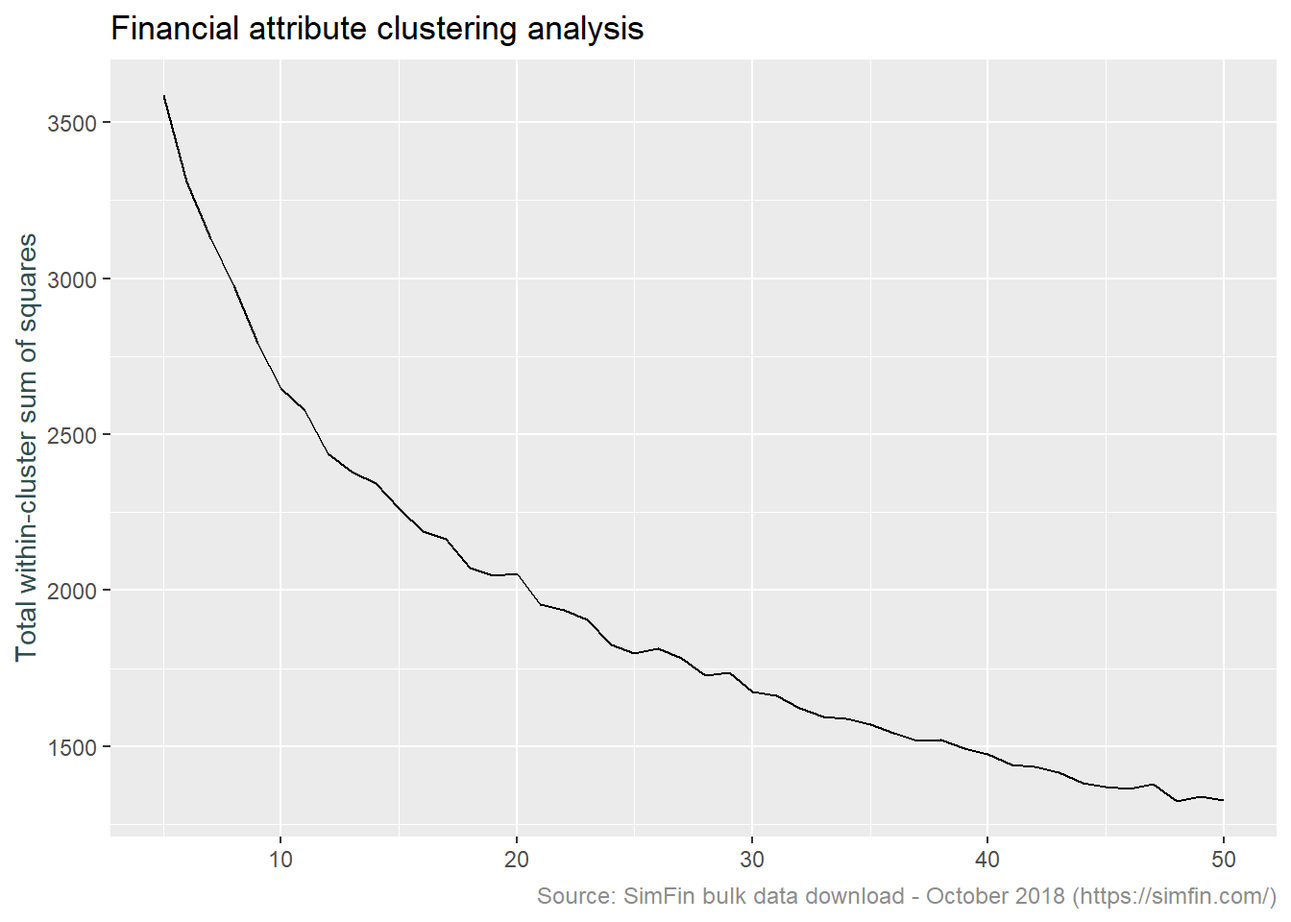
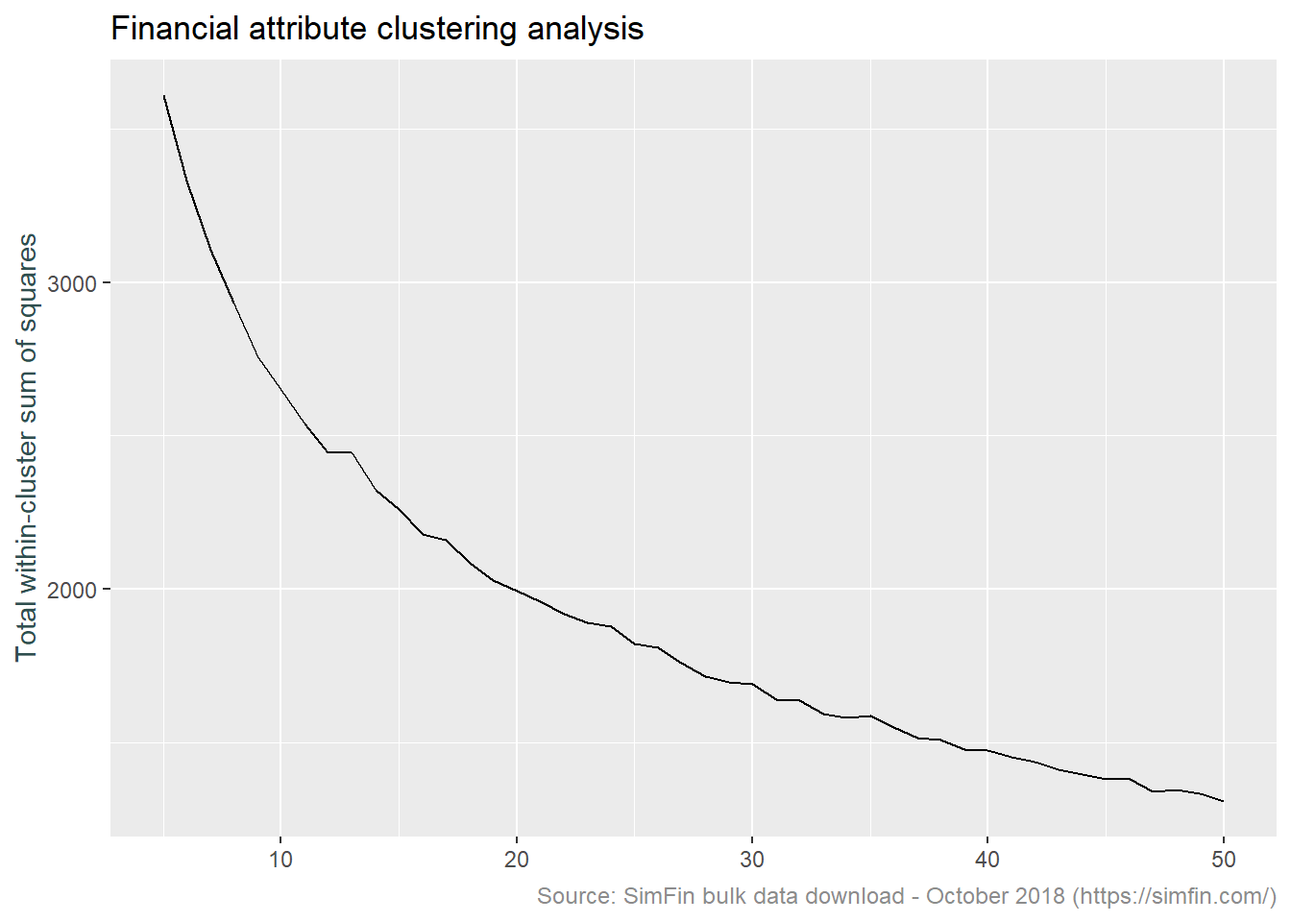
Text refinement

diff --git a/content/post/2019-05-12-ifrs9-disclosures-part-2.html b/content/post/2019-05-12-ifrs9-disclosures-part-2.html
@@ -24,12 +24,12 @@ topics: []
 <script src="/rmarkdown-libs/crosstalk/js/crosstalk.min.js"></script>
 
 
-<p><em>This post is incomplete. Outstanding actions are labelled TODO</em></p>
+<p><em>This post is incomplete. Outstanding actions are labelled “TO DO”</em></p>
 <p>This post is a continuation of the series initiated <a href="https://brentmorrison.netlify.com/post/ifrs9-disclosures/">here</a>.</p>
-<p>Recall our problem imagines we are a bank lending to the largest 1,000 US companies. We (“Bank1000”) own the debt of these companies and are required to prepare IFRS9 disclosures. This requires the estimatation of an expected credit loss (“ECL”) and risk stage.</p>
+<p>Recall our problem imagines we are a bank lending to the largest 1,000 US companies. We (“Bank1000”) own the debt of these companies and are required to prepare IFRS9 disclosures. This requires the estimation of an expected credit loss (“ECL”) and risk stage.</p>
 <p>We have already selected the top 1,000 stocks for analysis, we now need to create an ECL balance and assign a risk stage.</p>
 <p>The ECL is a probability weighted estimate of credit losses. The risk stage takes three values and indicates whether a loan has had no change in credit risk since origination (Stage 1), has experienced a significant increase in credit risk since origination (Stage 2) or if the loan is credit impaired (Stage 3). We are going to estimate the expected credit loss and risk stage via measurements of valuation and default risk. We do not know the level of credit risk at origination, so the risk stage will be assigned based on the current level of credit risk as opposed to the change since origination.</p>
-<p>Stocks that have a low valuation and/or a high default risk will attract a higher estimated expected credit loss. A high default risk is obviously a natural proxy for expected credit loss, the ECL is designed to reflect default risk. A low valuation will also proxy credit risk on the basis that should a stock be trading at a significant discount to it’s peers, it is likely to be experiencing heightened credit risk.</p>
+<p>Stocks that have a low valuation and/or a high default risk will attract a higher estimated expected credit loss. High default risk is obviously a natural proxy for expected credit loss, the ECL is designed to reflect default risk. Low valuation will also proxy credit risk on the basis that should a stock be trading at a significant discount to it’s peers, it is likely to be experiencing heightened credit risk.</p>
 <p>How will valuation and default risk be assessed? Valuation will be assessed using the Price/Book - Return on Equity (“PB-ROE”) model. Default risk will be assessed using the using the Merton distance to default model. Both of these methods will be explained in further detail below. It should be noted that the PB-ROE model will be applied to groups of similar stocks. The similarity of stocks is not going to be assessed via industry or sector membership, but rather by similarity of fundamental characteristics. This will be determined by applying a clustering algorithm.</p>
 <p>This is all going to take some significant data engineering. In broad terms this will look as follows:</p>
 <ol style="list-style-type: decimal">
@@ -159,7 +159,7 @@ simfin.m %&gt;% select(td.ta:rev.vol) %&gt;%
   )</code></pre>
 <div id="htmlwidget-1" style="width:100%;height:auto;" class="datatables html-widget"></div>
 <script type="application/json" data-for="htmlwidget-1">{"x":{"filter":"none","caption":"<caption style=\"caption-side: bottom; text-align: left;\">\n  <em>\n    Financial ratio legend:\n    <br/>\n    da.ta: Depreciation &amp; amortisation / total assets\n    <br/>\n    int.ta: Intangibles / total assets\n    <br/>\n    nca.ta: Non-current assets / total assets\n    <br/>\n    ncl.ta: Non-current liabilities / total assets\n    <br/>\n    np.ta: Net profit / total assets\n    <br/>\n    oa.ta: Other assets / total assets\n    <br/>\n    rev.ta: Revenue / total assets\n    <br/>\n    td.ta: Total debt / total assets\n    <br/>\n    rev.vol: Revenue volatility\n  <\/em>\n<\/caption>","data":[["Mean","Std.Dev","Min","Q1","Median","Q3","Max","MAD","IQR","CV","Skewness","SE.Skewness","Kurtosis","N.Valid","Pct.Valid"],[0.04,0.03,-0.24,0.02,0.03,0.05,0.64,0.02,0.02,0.86,6.45,0.01,80.23,56556,100],[0.06,0.09,0,0,0.01,0.08,0.81,0.01,0.08,1.67,2.68,0.01,9.79,56556,100],[0.62,0.23,0,0.45,0.63,0.81,1,0.27,0.36,0.38,-0.38,0.01,-0.65,56556,100],[0.37,0.45,-0.08,0.18,0.36,0.51,21.41,0.24,0.33,1.19,26.1,0.01,1006.7,56556,100],[0.05,0.11,-2.95,0.02,0.05,0.09,0.83,0.05,0.07,2.32,-6.17,0.01,136.44,56556,100],[0.34,0.23,0,0.15,0.31,0.51,0.95,0.26,0.36,0.67,0.43,0.01,-0.77,56556,100],[0.83,0.71,-0.46,0.36,0.64,1.08,8.89,0.48,0.72,0.85,2.75,0.01,15.26,56556,100],[0.15,0.26,0,0.04,0.07,0.16,4.04,0.07,0.12,1.71,5.97,0.01,51.8,56556,100],[0.29,0.46,0,0.13,0.27,0.4,24.93,0.2,0.27,1.56,32.03,0.01,1397.67,56556,100]],"container":"<table class=\"display\">\n  <thead>\n    <tr>\n      <th> <\/th>\n      <th>da.ta<\/th>\n      <th>int.ta<\/th>\n      <th>nca.ta<\/th>\n      <th>ncl.ta<\/th>\n      <th>np.ta<\/th>\n      <th>oa.ta<\/th>\n      <th>rev.ta<\/th>\n      <th>rev.vol<\/th>\n      <th>td.ta<\/th>\n    <\/tr>\n  <\/thead>\n<\/table>","options":{"pageLength":15,"columnDefs":[{"className":"dt-right","targets":[1,2,3,4,5,6,7,8,9]},{"orderable":false,"targets":0}],"order":[],"autoWidth":false,"orderClasses":false,"lengthMenu":[10,15,25,50,100]}},"evals":[],"jsHooks":[]}</script>
-<p>A not about table formatting <a href="#fn1" class="footnote-ref" id="fnref1"><sup>1</sup></a>.</p>
+<p>A note about table formatting <a href="#fn1" class="footnote-ref" id="fnref1"><sup>1</sup></a>.</p>
 <pre class="r"><code># Plot density graph
 simfin.m %&gt;% 
   select(td.ta:da.ta) %&gt;% gather(ratio, value) %&gt;% 
@@ -173,12 +173,12 @@ simfin.m %&gt;%
         axis.title.y = element_text(color = &quot;darkslategrey&quot;),
         plot.caption = element_text(size = 9, color = &quot;grey55&quot;))</code></pre>
 <p><img src="/post/2019-05-12-ifrs9-disclosures-part-2_files/figure-html/step_1_3-1.png" width="792" /></p>
-<p>Inspection of the histograms and summary statisitic show a number of issues with this data that need to be addressed before proceeding:</p>
+<p>Inspection of the histograms and summary statistic show a number of issues with this data that need to be addressed before proceeding:</p>
 <ol style="list-style-type: decimal">
 <li><p>Depreciation &amp; amortisation / total assets, non-current liabilities / total assets and revenue / total assets are all returning negative values. This indicates data quality issues. Neither the numerators or denominator of these ratios can take a negative value. We will attempt to resolve this by winsorising the data.</p></li>
-<li><p>Intangibles / total assets appears to be a low variance predictor. This attribute is returning mostly nil values. The minimum and first quartile value are both nil. A quick review of a couple of Tickers known to have intangibles (A - Agilent, AAPL - Apple, NFLX - Netflix) shows that this data attribute is missing. We will ignore this attribute and take Other assets / total assets as a proxy for the quantum of intangibles. This is appropriate since Intangible assets is a component of Other assets.</p></li>
+<li><p>Intangibles / total assets appears to be a low variance predictor. This attribute is returning mostly nil values. The minimum and first quartile value are both nil. A quick review of a couple of Tickers known to have intangibles (A - Agilent, AAPL - Apple, NFLX - Netflix) shows that this data attribute is missing. We will ignore this attribute and take other assets / total assets as a proxy for the quantum of intangibles. This is appropriate since Intangible assets is a component of Other assets.</p></li>
 <li><p>A number of attributes are highly skewed. The k-means clustering algorithm does not perform well on skewed data since cluster centres are derived by taking the average of all data points. Outliers present in skewed data sets unduly influence the cluster centres resulting in less then representative clusters. See <a href="https://www.quora.com/How-are-k-means-clustering-algorithms-sensitive-to-outliers">here</a> for a nice explanation of this effect. Should the winsorisation of attributes not resolve the skewness we may need to performing a Box-Cox or log transformation.</p></li>
-<li><p>The attributes we have used are on different scales. Although most attributes are expressed relative to total assets, profit and loss items are naturally on a different scale to balance sheet items. Revenue volatility is on a seperate scale altogether. The use of attributes with differing scales is not appropriate for ingestion to the k-means clustering algorithm. This is because one attribute can dominate others should it have greater dispersion. The answers to <a href="https://stats.stackexchange.com/questions/89809/is-it-important-to-scale-data-before-clustering">this</a> Stack Overflow question go into further detail around this effect. In light of this we will centre and scale the data.</p></li>
+<li><p>The attributes we have used are on different scales. Although most attributes are expressed relative to total assets, profit and loss items are naturally on a different scale to balance sheet items. Revenue volatility is on a separate scale altogether. The use of attributes with differing scales is not appropriate for ingestion to the k-means clustering algorithm. This is because one attribute can dominate others should it have greater dispersion. The answers and visualisation in <a href="https://stats.stackexchange.com/questions/89809/is-it-important-to-scale-data-before-clustering">this</a> Stack Overflow question intuitively explain this effect. In light of this we will centre and scale the data.</p></li>
 </ol>
 <pre class="r"><code># View summary statistics
 simfin.m %&gt;% select(td.ta:rev.vol, -int.ta) %&gt;% 
@@ -222,11 +222,11 @@ simfin.m %&gt;%
         axis.title.y = element_text(color = &quot;darkslategrey&quot;),
         plot.caption = element_text(size = 9, color = &quot;grey55&quot;))</code></pre>
 <p><img src="/post/2019-05-12-ifrs9-disclosures-part-2_files/figure-html/step_1_5-1.png" width="792" /></p>
-<p>This provides us with a dataset that is more appropriate for clustering. Some further observations:</p>
+<p>This provides us with a data set that is more appropriate for clustering. Some further observations:</p>
 <ol style="list-style-type: decimal">
 <li>Revenue volatility remains highly skewed. We will take the log transform of this attribute to resolve this.<br />
 </li>
-<li>The total debt over assets attribute (td.ta) has a bimodal distribution. This is a feature of the data in that a specific cohort of stocks will have no debt.<br />
+<li>The total debt over assets (“td.ta”) and non-current liabilities / total assets (“ncl.ta”) attributes both have a bi-modal distribution. This is a feature of the data in that a specific cohort of stocks will have no debt.<br />
 </li>
 <li>It’s also worth noting the co-efficient of variation is now meaningless since the mean is nil after centering the data.</li>
 </ol>
@@ -281,7 +281,7 @@ simfin.m %&gt;%
 <h3>Step 2 - Assign stocks to like groups based on financial characteristics via a clustering algorithm</h3>
 <p>Stocks are traditionally assigned to like groups via industry or sector membership. We are going to take a different approach and group stocks in an unsupervised manner. We will use a k-means clustering algorithm to cluster stocks based on financial characteristics.</p>
 <p>Why not just use industry membership? Industry membership can be subjective and may change over time with a lag. The use of financial ratios is quantitative and will be updated with current information.</p>
-<p>With that in mind, we need to assess the optimal number of clusters. The code below is taken from <a href="https://cran.r-project.org/web/packages/broom/vignettes/kmeans.html">this</a> broom package vignette. This uses both the <code>broom</code> and <code>purrr</code> packages to iteratively perform k-means clustering with different values of k, the number of clusters.</p>
+<p>With that in mind, we need to assess the optimal number of clusters to use in the k-means algorithm. The code below is taken from <a href="https://cran.r-project.org/web/packages/broom/vignettes/kmeans.html">this</a> broom package vignette. This uses both the <code>broom</code> and <code>purrr</code> packages to iteratively perform k-means clustering with different values of k, the number of clusters.</p>
 <p>The output of the code block below is a graph of the total within-cluster sum of squares versus a range of values for k. Within-cluster sum of squares is of interest since this is the metric the k-means algorithm seeks to minimise. Lower within-cluster sum of squares corresponds to lower with-in cluster variation. This means that the members of the cluster are more alike and the clusters are therefore more different.</p>
 <p>Note that we now select data at a specific date.</p>
 <pre class="r"><code># Create dataframe for clustering
@@ -309,6 +309,7 @@ assignments &lt;- kclusts %&gt;%
 ggplot(clusterings, aes(k, tot.withinss)) +
   geom_line() +
   ylab(&quot;Total within-cluster sum of squares&quot;) +
+  xlab(&quot;k&quot;) +
   labs(title = &quot;Financial attribute clustering analysis&quot;,
        caption = &quot;Source: SimFin bulk data download - October 2018 (https://simfin.com/)&quot;) +
   theme_grey() +
@@ -316,8 +317,8 @@ ggplot(clusterings, aes(k, tot.withinss)) +
         axis.title.y = element_text(color = &quot;darkslategrey&quot;),
         plot.caption = element_text(size = 9, color = &quot;grey55&quot;))</code></pre>
 <p><img src="/post/2019-05-12-ifrs9-disclosures-part-2_files/figure-html/step_2-1.png" width="672" /></p>
-<p>Normally k is selected at the point at which the above plot shows a sharp “elbow”. This is the point at which there is little improvement in the fit of the algorithm as k increases. As can be seen above, there is no sharp elbow to this graph. For conveniance sake more than anything else, we will choose 16 clusters for our analysis going forward.</p>
-<p>At this point we should note that our clustering technique can miss quiet a bit. If clusters are of unequal size, are of unequal density, or are not spherical, the k-means algorithm is not appropriate. Investigating these details is beyond the scope of what I am trying to achieve with this post. <a href="https://codeahoy.com/2017/02/19/cluster-analysis-using-k-means-explained/">This article</a> provides a further detail on these topics.</p>
+<p>Normally k is selected at the point at which the above plot shows a sharp “elbow”. This is the point at which there is little improvement in the fit of the algorithm as k increases. As can be seen above, there is no sharp elbow to this graph. For convenience sake more than anything else, we will choose 16 clusters for our analysis going forward.</p>
+<p>At this point we should note that our clustering technique can miss quiet a bit. If clusters are of unequal size, are of unequal density, or are not spherical, the k-means algorithm is not appropriate. Investigating these details is beyond the scope of what I am trying to achieve with this post. <a href="https://codeahoy.com/2017/02/19/cluster-analysis-using-k-means-explained/">This article</a> provides further detail on these topics.</p>
 <p>Lets now visualise our clusters. This code plots the cluster characteristics in a radar plot.</p>
 <pre class="r"><code>set.seed(123)
 kclust16 &lt;- kmeans(simfin.cl, 16, nstart = 25)
@@ -348,9 +349,12 @@ kclust16.nm %&gt;% select(-size, -withinss, -cluster, -first, -second, -seventh,
   #ggtitle(&quot;Fundamental cluster characteristics&quot;)
   theme_grey() +
   theme(strip.text = element_text(size = 7),
-        legend.position = &quot;none&quot;)</code></pre>
+        legend.position = &quot;none&quot;,
+        axis.title.x = element_blank(),
+        axis.title.y = element_text(color = &quot;darkslategrey&quot;),
+        plot.caption = element_text(size = 9, color = &quot;grey55&quot;))</code></pre>
 <p><img src="/post/2019-05-12-ifrs9-disclosures-part-2_files/figure-html/step_3-1.png" width="792" style="display: block; margin: auto auto auto 0;" /></p>
-<p>Note that the facet titles are a concatenation of the two highest and two lowest cluster centres. Since our data has been scaled to a unit variance these are comparable metrics.</p>
+<p>Note that the facet titles are a concatenation of the two highest and two lowest cluster centres. Since our data has been scaled to a unit variance, these are comparable metrics.</p>
 </div>
 <div id="step-3---assign-cluster-label-to-stocks-and-fill-forward-cluster-category-to-next-assessment-date" class="section level3">
 <h3>Step 3 - Assign cluster label to stocks and fill forward cluster category to next assessment date</h3>
@@ -397,8 +401,8 @@ for (i in c(&#39;2014-01-31&#39;,&#39;2014-07-31&#39;, &#39;2015-01-31&#39;, &#3
 
 # Convert SimFin.ID back to numeric
 kclust16.tot &lt;- kclust16.tot %&gt;% mutate(SimFin.ID = as.numeric(SimFin.ID))</code></pre>
-<p>TODO - insert data table to inspect output</p>
-<p>TODO - build this as a function</p>
+<p><em>TO DO: insert data table to inspect output</em></p>
+<p><em>TO DO: build this as a function</em></p>
 <p>The code block below joins the cluster labels to the monthly data set and then fills forward the cluster membership.</p>
 <pre class="r"><code># Join tables
 simfin.m &lt;- simfin.m %&gt;% left_join(kclust16.tot, by = c(&quot;me.date&quot;, &quot;Ticker&quot;, &quot;SimFin.ID&quot;)) %&gt;% 
@@ -406,7 +410,7 @@ simfin.m &lt;- simfin.m %&gt;% left_join(kclust16.tot, by = c(&quot;me.date&quot
 <div id="step-4---for-each-date-and-cluster-fit-the-pb-roe-model-and-rank-stocks-based-on-the-resultant-valuation" class="section level4">
 <h4>Step 4 - For each date and cluster, fit the PB-ROE model and rank stocks based on the resultant valuation</h4>
 <p>I first learned about the Price/Book - Return on Equity (“PB-ROE”) model reading <a href="http://alephblog.com/2012/02/25/thinking-about-the-insurance-industry/">this</a> blog. The intuition of fitting a regression line to determine the relationship between return on equity and valuation, and then using deviations from this relationship (the residual from this regression) to determine relative valuation of stocks seemed simple and appealing. After all if some stocks in the same industry (or having the same financial characteristics in our example) have a higher ROE, they should be more valuable.</p>
-<p>The code block below creates the required inputs to the PB-ROE model, fits the model to each cluster and date, and then joins this data back to our main dataframe <code>simfin.m</code>. This block of code relies heavily on the nesting functionailty in the <code>purrr</code> package.</p>
+<p>The code block below creates the required inputs to the PB-ROE model, fits the model to each cluster and date, and then joins this data back to our main dataframe <code>simfin.m</code>. This block of code relies heavily on the nesting functionality in the <code>purrr</code> package.</p>
 <pre class="r"><code>simfin.pbroe1 &lt;- simfin.m %&gt;% 
   # Price to book rato and ROE
     mutate(ROE = Winsorize(ann.NetProfit / TotalEquity, probs = c(0.02, 0.98), na.rm = TRUE),
@@ -442,13 +446,13 @@ simfin.pbroe &lt;- simfin.pbroe1 %&gt;%
 # Join to monthly data frame
 simfin.m &lt;- simfin.m %&gt;% left_join(simfin.pbroe) %&gt;% 
   
-  # Add percent rank of residual  TODO - add +ve or -ve residual flag to indicate if
+  # Add percent rank of residual  TO DO: add +ve or -ve residual flag to indicate if
   # over or under valued and group over this in addition to below.
   group_by(me.date, clust.name) %&gt;% 
   mutate(PBROE.rank = percent_rank(desc(resid))) %&gt;% 
   ungroup() %&gt;% 
   rename(PBROE.resid = resid)</code></pre>
-<p>The newly added attributes to our data frame are labelled PBROE.resid and PBROE.rank. PBROE.resid is the difference between the actual log price book ratio and that predicted by the return on equity. If the residual is a positive then stocks are considered overvalued, the actual price to book ratio is larger than that determined by the model. Likewise a negative residual indicates undervaluation based on our model. PBROE.rank is a descending percent ranking of the PBROE.resid. A value of 1 is the lowest residual (undervalued) and a value of nil is the most overvalued.</p>
+<p>The newly added attributes to our data frame are labelled PBROE.resid and PBROE.rank. PBROE.resid is the difference between the actual log price book ratio and that inferred by the return on equity. If the residual is a positive then stocks are considered overvalued, the actual price to book ratio is larger than that determined by the model. Likewise a negative residual indicates undervaluation based on our model. PBROE.rank is a descending percent ranking of the PBROE.resid. A value of 1 is the lowest residual (undervalued) and a value of nil is the most overvalued.</p>
 <pre class="r"><code># Plot average r squared of regression model
 # It would be interesting to compare the results of this to applying the PB-ROE model to industries
 r.sq &lt;- simfin.pbroe1 %&gt;% 
@@ -474,16 +478,25 @@ simfin.m %&gt;%
             check_overlap = TRUE,
             size = 3,
             nudge_x = 0.4) +
-  geom_smooth(method = lm)</code></pre>
+  geom_smooth(method = lm) +
+  labs(title = &quot;PB-ROE model by fundamental cluster&quot;,
+     subtitle = &quot;As at December 2017&quot;,
+     caption = &quot;Source: SimFin bulk data download - October 2018 (https://simfin.com)&quot;) +
+  theme_grey() +
+  theme(strip.text = element_text(size = 7),
+        legend.position = &quot;none&quot;,
+        axis.title.x = element_blank(),
+        axis.title.y = element_text(color = &quot;darkslategrey&quot;),
+        plot.caption = element_text(size = 9, color = &quot;grey55&quot;))</code></pre>
 <p><img src="/post/2019-05-12-ifrs9-disclosures-part-2_files/figure-html/pb_roe_check-1.png" width="792" /></p>
-<pre class="r"><code>#https://stackoverflow.com/questions/26558631/predict-lm-in-a-loop-warning-prediction-from-a-rank-deficient-fit-may-be-mis</code></pre>
-<p>TODO: <em>Determine Why cluster <code>oa.ta_nca.ta_td.ta_da.ta</code>as at 31 December 2017 returning only one stock despite the cluster size being 81?</em></p>
+<p>We expect to see an upward sloping line as the P (price or market capitalisation) in the logPB increases with greater ROE (return on equity). This is primarily what has been observed. A number of clusters do have an inverted relationship and a very low number of individual observations. This is suspected to be a result of anomalies in the data but that is up for further investigation.</p>
+<p><em>TO DO: Determine Why cluster <code>oa.ta_nca.ta_td.ta_da.ta</code>as at 31 December 2017 returning only one stock despite the cluster size being 81?</em></p>
 </div>
 <div id="step-5---apply-the-merton-distance-to-default-model-and-rank-stocks-by-probability-of-default" class="section level4">
 <h4>Step 5 - Apply the Merton distance to default model and rank stocks by probability of default</h4>
-<p>TODO: <em>Insert introductory explanation of Merton model here. Why does full version need iteration? Show summarised version. What does the DD actually represent?</em></p>
-<p>The Merton distance to default model has been modified in this paper: <a href="https://econpapers.repec.org/paper/utsrpaper/112.htm">Merton for dummies</a></p>
-<p>Fistly, we need to prepare data for Merton model. The three inputs are Market cap, debt and equity return volatilty. We do not have equity volatility so this is calculated below.</p>
+<p><em>TO DO: Insert introductory explanation of Merton model here. Why does full version need iteration? Show summarised version. What does the distance to default actually represent?</em></p>
+<p>The Merton distance to default model has been modified in the <a href="https://econpapers.repec.org/paper/utsrpaper/112.htm">Merton for dummies</a> paper. It is this simplified version that we will implement.</p>
+<p>As always, firstly we need to prepare data for ingestion to the model. The three inputs are market capitalisation, debt and equity return volatility. Previous analysis has used both market cap and total debt, we have that data available. We have not calculated equity volatility thus far. This is calculated below.</p>
 <pre class="r"><code># Price - filter attributes and dates required
 simfin.d &lt;- simfin %&gt;% filter(Indicator.Name == &quot;Share Price&quot; &amp; publish.date &gt; &quot;2011-12-31&quot;) %&gt;% 
 mutate(me.date = ceiling_date(publish.date, unit = &quot;month&quot;) - 1) %&gt;% 
@@ -504,21 +517,22 @@ mutate(me.date = ceiling_date(publish.date, unit = &quot;month&quot;) - 1) %&gt;
 
 # Join to monthly data frame
 simfin.m &lt;- simfin.m %&gt;% left_join(simfin.d)</code></pre>
-<p>We now create the distance to default and a descending percent ranking thereof (MertonDD.rank).</p>
-<pre class="r"><code># Create Merton DD.  TODO - resolve infinity
+<p>We now create the distance to default measure and assign a descending percent ranking thereof (MertonDD.rank).</p>
+<pre class="r"><code># Create Merton DD
 simfin.m &lt;- simfin.m %&gt;% 
   mutate(MertonDD = if_else(TotalDebt == 0 | vol_3m == 0, 25,
                        log(1/(TotalDebt / (TotalDebt + mkt.cap))) / 
                        (vol_3m * (1-(TotalDebt/(TotalDebt + mkt.cap))))),
          MertonDD.rank = percent_rank(desc(MertonDD)))</code></pre>
-<p>TODO: <em>Visualise the results of the DD</em></p>
+<p><em>TO DO: resolve infinity</em></p>
 <p>A MertonDD.rank value of 1 is the highest value of distance to default, these are stocks that are unlikely to default and hence have low credit risk. Likewise lower values of MertonDD.rank represent stocks with smaller distance to default and higher credit risk.</p>
-<p>In the introductions we stated that stocks that have a low valuation and/or a high default risk will attract a higher estimated expected credit loss. We therefore need to combine our ranking and come up with a single measure with which to apply and ECL and risk stage. The code block below takes the average of our two percent rank measures (PBROE.rank and MertonDD.rank), ranks the result and assigns an ECL on the following scale.</p>
+<p>Let’s have a look at the highest and lowest ranked stocks for December 2017.</p>
+<p><em>TO DO: Visualise the results of the MertonDD attibute using DT</em></p>
 </div>
 <div id="step-6---combine-the-rankings-of-the-valuation-and-default-models-and-assign-an-ecl-and-risk-stage" class="section level4">
 <h4>Step 6 - Combine the rankings of the valuation and default models, and assign an ECL and risk stage</h4>
-<p>TODO - ALL OF STEP 6</p>
-<pre class="r"><code># Create Merton DD.  TODO - resolve infinity
+<p>In the introduction we stated that stocks that have a low valuation and/or a high default risk will attract a higher estimated expected credit loss. We therefore need to combine our ranking and come up with a single measure with which to apply an ECL and risk stage. The code block below takes the average of our two percent rank measures (PBROE.rank and MertonDD.rank), ranks the result and assigns an ECL on the scale implicit in the <code>case_when</code> statement below.</p>
+<pre class="r"><code># Create Merton DD.  TO DO: resolve infinity
 simfin.m &lt;- simfin.m %&gt;% 
   group_by(me.date) %&gt;% 
   mutate(avg.rank = (PBROE.rank + MertonDD.rank) /2,
@@ -533,6 +547,13 @@ simfin.m &lt;- simfin.m %&gt;%
                            TRUE ~ comb.rank * 0.025 * TotalDebt
                            ),
          ECL = cover * TotalDebt)</code></pre>
+<p><em>TO DO: Visualise the results of the cover and ECL attibutes using DT</em></p>
+</div>
+<div id="conclusion" class="section level4">
+<h4>Conclusion</h4>
+<p>The analysis above has created an ECL and risk stage for our imaginary banks loan portfolio. This data will be used to prepare the tables highlighted in the first post of this series. That will be done using data analysis tools in both Python and R. The aim is to be proficient in both of these languages.</p>
+<p>We have gone down a rabbit hole in deriving these attributes and that is intentional<a href="#fn2" class="footnote-ref" id="fnref2"><sup>2</sup></a>. The whole idea here is to practice modelling techniques with a real world dirty data set. Dealing with outliers, missing data and inconsistent data is large part data science / data analysis. No point shying away from it</p>
+<p>With that we’ll leave it till next time.</p>
 </div>
 </div>
 <div id="references" class="section level3">
@@ -540,12 +561,13 @@ simfin.m &lt;- simfin.m %&gt;%
 <p><a href="https://econpapers.repec.org/paper/utsrpaper/112.htm">Merton for dummies</a><br />
 <a href="https://seekingalpha.com/article/40398-pb-roe-analysis-a-very-useful-tool">PB-ROE link1</a><br />
 <a href="https://www.seactuary.com/files/handouts/wall_street_view_of_insurers.pdf">PB-ROE link2</a><br />
-<a href="https://dabblingwithdata.wordpress.com/2018/02/26/r-packages-for-summarising-data-part-2/">descriptr</a>
+<a href="https://dabblingwithdata.wordpress.com/2018/02/26/r-packages-for-summarising-data-part-2/">descriptr</a><br />
 <a href="http://www.bradfordlynch.com/blog/2017/05/20/ProbabilityOfDefault.html">Merton</a></p>
 </div>
 <div class="footnotes">
 <hr />
 <ol>
-<li id="fn1"><p>I am yet to find a way to correct the formatting of tables produced using the kableExtra package. They should look something like <a href="https://cran.r-project.org/web/packages/kableExtra/vignettes/awesome_table_in_html.html#bootstrap_theme">this</a>. Instead, I end up with something similar to that demonstrated <a href="https://brentmorrison.netlify.com/post/test-post/">here</a>. Stackoverflow tells me there is a whole lot of messing with CSS code required to get that sorted out. Not having the time for that, the tables produced by the <a href="https://rstudio.github.io/DT/">DT</a> package will do for now.<a href="#fnref1" class="footnote-back">↩</a></p></li>
+<li id="fn1"><p>I am yet to find a way to correct the formatting of tables produced using the kableExtra package. They should look something like <a href="https://cran.r-project.org/web/packages/kableExtra/vignettes/awesome_table_in_html.html#bootstrap_theme">this</a>. Instead, I end up with something similar to that demonstrated <a href="https://brentmorrison.netlify.com/post/test-post/">here</a>. Stack overflow tells me there is a whole lot of messing with CSS code required to get that sorted out. Not having the time for that, the tables produced by the <a href="https://rstudio.github.io/DT/">DT</a> package will do for now.<a href="#fnref1" class="footnote-back">↩</a></p></li>
+<li id="fn2"><p>We could have easily assigned an ECL by multiplying the loan balance by a random number between say 0.5 and 0.05.<a href="#fnref2" class="footnote-back">↩</a></p></li>
 </ol>
 </div>
